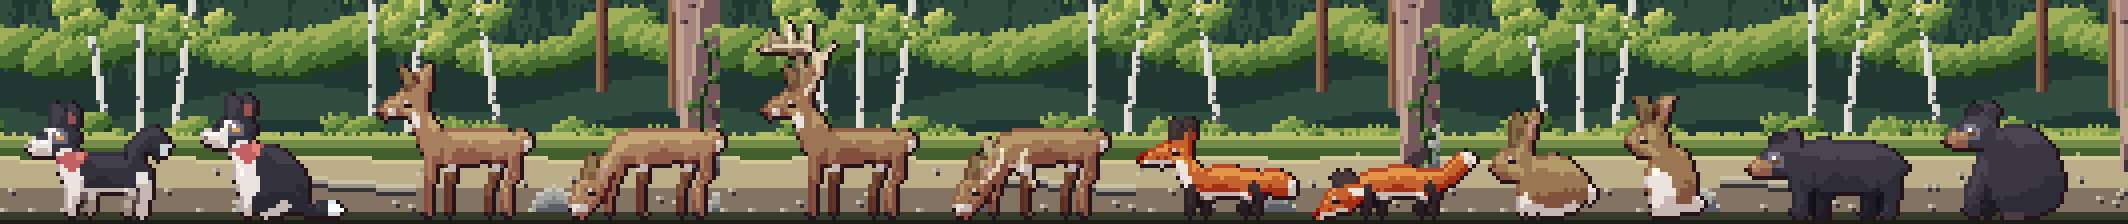
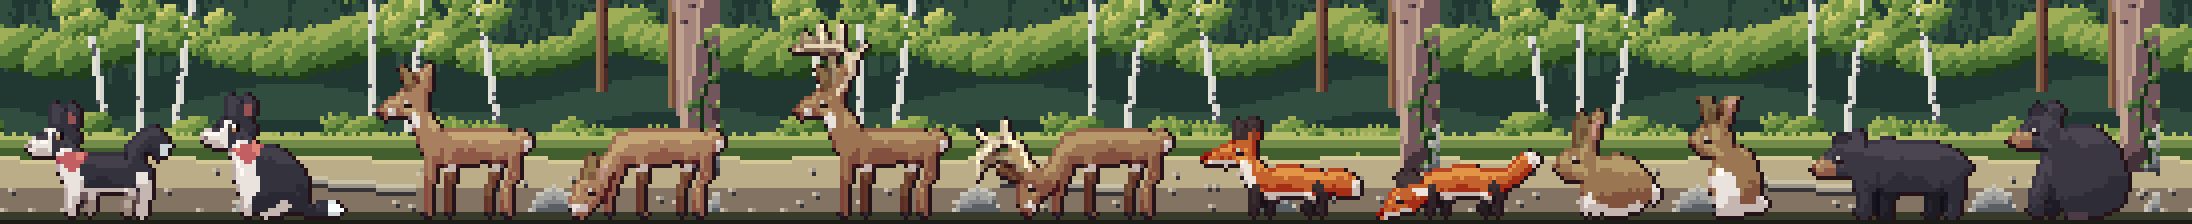
Study 8: Olive's eye with a black pupil; the buck's head turns with its antlers
The grey eye rims on Olive and the bear are taken back out; Olive's eye
gets a black pupil and a catchlight. The drinking buck's standing head,
ears and antlers are turned down together (head_turn in anatomy.py), so
the antlers point the way the head does, with room on the left for them.

Claude-Session: https://claude.ai/code/session_01AFuv3xBDCFNHg8cxuFG86Z

diff --git a/docs/studio/review/study8.html b/docs/studio/review/study8.html
@@ -115,12 +115,11 @@ code { font-family: var(--mono); font-size: 0.85em; }
     <h2>C, with every model checked</h2>
     <p>You picked C and pointed out that Olive's eyes didn't show and the deer lost her ears when she bent down. Going over every model close up:</p>
     <ol class="rules">
-      <li><b>Olive:</b> her brown eyes vanished against her black coat. They're a warmer brown now, with a catchlight and a soft grey rim round them, so they read.</li>
-      <li><b>The bear:</b> the same problem with his dark eyes on black fur; now a brown eye with the same soft rim.</li>
+      <li><b>Olive:</b> her brown eyes vanished against her black coat. Her eye is her own brown again, with a black pupil beside it and a catchlight, so it reads. (A soft grey rim was tried first, on her and the bear, and taken back out.)</li>
       <li><b>The deer, drinking:</b> her ears folded back along her neck and merged into it. They now stand up and back from the top of her head, the near one showing its pink inside.</li>
       <li><b>The fox:</b> his ears were all orange and melted into his head; a red fox's ears are black-backed, and now his are.</li>
       <li><b>The hare, sitting up:</b> both ears merged into one wide block; they're parted now, the far one angled back.</li>
-      <li><b>New: a buck</b> beside the doe: hardened late-summer antlers (two beams sweeping forward, tines rising from them), a heavier neck, a darker coat.</li>
+      <li><b>New: a buck</b> beside the doe: hardened late-summer antlers (two beams sweeping forward, tines rising from them), a heavier neck, a darker coat. Drinking, his whole head (ears and antlers with it) turns down as one piece, so the antlers sweep forward the way his head points.</li>
     </ol>
     <img src="study8/final.png" alt="The corrected cast in direction C, standing and in their own poses, with the buck" width="2128" height="224" style="width:100%;height:auto;image-rendering:pixelated;border-radius:4px">
   </section>

diff --git a/tools/studio/study_creatures.py b/tools/studio/study_creatures.py
@@ -83,7 +83,7 @@ DEER = {
 # slightly darker coat. Drawn from the doe, with a taller frame for the
 # antlers.
 BUCK = copy.deepcopy(DEER)
-BUCK["frame"], BUCK["ground"] = (46, 54), 52
+BUCK["frame"], BUCK["ground"], BUCK["dx"] = (54, 54), 52, 8
 BUCK["colours"].update({"O": "#9c7454", "S": "#735238", "A": "#e2d4b4", "a": "#9c8a6a"})
 BUCK["poses"]["stand"].update({
     "neck": [(13.5, 22.5), (11, 17), (9.5, 12.5), (12.8, 10.2), (16.5, 14), (18.5, 19)],
@@ -95,12 +95,9 @@ BUCK["poses"]["stand"].update({
                 ("A", [(15.6, 2.4), (18.6, -1.2)], [1, 1]), ("A", [(13.4, -1), (14, -5.6)], [1, 1]),
                 ("A", [(9.6, -1.9), (9.6, -6.2)], [1, 1])],
 })
-BUCK["poses"]["drink"].update({
-    "neck": [(13.5, 21), (11.5, 23.5), (8.5, 28.5), (5.5, 32.5), (9.5, 34.5), (12.5, 29.5), (17, 23)],
-    "antlers_far": [("a", [(6.6, 30), (8.4, 26.6), (11.8, 24.6), (15.4, 25.4)], [1.2, 1, 1, 1]), ("a", [(10.4, 25.2), (10, 21.4)], [1, 1])],
-    "antlers": [("A", [(8.8, 30.6), (11.6, 28), (15.4, 26.8), (18.6, 28), (20, 31)], [1.3, 1.1, 1, 1, 1]),
-                ("A", [(12.4, 27.6), (13.4, 23.6)], [1, 1]), ("A", [(16.4, 27), (18.2, 23.4)], [1, 1])],
-})
+BUCK["poses"]["drink"] = {**DEER["poses"]["drink"], "head_turn": (-60, "stand"), "pivot": (8, 30),
+    "neck": [(13.5, 21), (11.5, 23.5), (8.5, 28.5), (6, 31.5), (9.5, 33.5), (12.5, 29.5), (17, 23)],
+}
 
 FOX = {
     "frame": (42, 27), "ground": 25, "near": "K", "far": "S",
@@ -180,8 +177,8 @@ HARE = {
 }
 
 BEAR = {
-    "frame": (46, 31), "ground": 29, "near": "O", "far": "S", "eye_ring": "k",
-    "colours": {"O": "#3a3742", "S": "#26232c", "M": "#a9805f", "P": "#5a4a50", "E": "#6b4430", "k": "#6c6878"},
+    "frame": (46, 31), "ground": 29, "near": "O", "far": "S",
+    "colours": {"O": "#3a3742", "S": "#26232c", "M": "#a9805f", "P": "#5a4a50"},
     "poses": {"stand": {
         "pivot": (9, 14),
         "torso": [(12, 12.5), (17, 10), (24, 10.5), (31, 11), (36, 12), (39, 15), (39, 19), (36, 21.5), (28, 22), (19, 22), (13, 21), (10, 18.5), (10, 15)],
@@ -219,9 +216,9 @@ BEAR = {
 }
 
 OLIVE = {
-    "frame": (42, 32), "ground": 30, "near": "W", "far": "w", "eye_ring": "k",
-    "colours": {"O": "#33323d", "W": "#eae2dc", "w": "#b3a697", "H": "#faffff", "R": "#c25f62", "P": "#985252", "E": "#c07a4a",
-                "k": "#6c6878", "C": "#fff4e0"},
+    "frame": (42, 32), "ground": 30, "near": "W", "far": "w", "pupil": "D",
+    "colours": {"O": "#33323d", "W": "#eae2dc", "w": "#b3a697", "H": "#faffff", "R": "#c25f62", "P": "#985252", "E": "#a36443",
+                "D": "#14090e"},
     "poses": {"stand": {
         "pivot": (11, 12),
         "torso": [(13, 16), (19, 15), (26, 15.2), (31, 16), (33.5, 18.5), (33, 22), (30, 23.5), (24, 23.6), (18, 23.8), (13.5, 22.5), (11, 19.5), (11.5, 17)],

diff --git a/tools/characters/anatomy.py b/tools/characters/anatomy.py
@@ -141,6 +141,23 @@ def draw(spec, style="natural", pose="stand"):
     p = dict(spec["poses"][pose])
     if "base" in p:
         p = {**spec["poses"][p["base"]], **p}
+    if "head_turn" in p:
+        # the head of another pose, with its ears and antlers, turned as one
+        # piece about the top of the neck and set on this pose's neck, so
+        # everything on the head points the way the head does
+        angle, src = p["head_turn"]
+        q = spec["poses"][src]
+        a = math.radians(angle)
+        (sx, sy), (tx, ty) = q["pivot"], p["pivot"]
+
+        def turn(pts):
+            return [(tx + (x - sx) * math.cos(a) - (y - sy) * math.sin(a), ty + (x - sx) * math.sin(a) + (y - sy) * math.cos(a)) for x, y in pts]
+        p["head"] = turn(q["head"])
+        p["eye"], p["nose"] = turn([q["eye"]])[0], turn([q["nose"]])[0]
+        for key in ("ears", "ears_far", "head_marks"):
+            p[key] = [(ch, turn(pts)) for ch, pts in q.get(key, [])]
+        for key in ("antlers", "antlers_far"):
+            p[key] = [(ch, turn(j), w) for ch, j, w in q.get(key, [])]
     W, H, G = spec["frame"][0], spec["frame"][1], spec["ground"]
     c = Canvas(W, H)
     legs = []
@@ -150,10 +167,11 @@ def draw(spec, style="natural", pose="stand"):
         legs.append((side, new, widths))
     # the whole animal lowered so its lowest foot stands on the ground
     drop = G - max(j[-1][1] for _, j, _ in legs)
-    sh = lambda pts: [(x, y + drop) for x, y in pts]  # noqa: E731
-    legs = [(side, [(x, y + drop) for x, y in j], w) for side, j, w in legs]
+    dx = spec.get("dx", 0)  # room on the left, for antlers reaching forward
+    sh = lambda pts: [(x + dx, y + drop) for x, y in pts]  # noqa: E731
+    legs = [(side, [(x + dx, y + drop) for x, y in j], w) for side, j, w in legs]
     pivot = p["pivot"]
-    pivot = (pivot[0], pivot[1] + drop)
+    pivot = (pivot[0] + dx, pivot[1] + drop)
     head = lambda pts, extra=1.0: scaled(sh(pts), pivot, st["head"] * extra)  # noqa: E731
     torso = rounder(sh(p["torso"]), st["round"])
     for side, j, w in legs:
@@ -209,6 +227,10 @@ def draw(spec, style="natural", pose="stand"):
                 put(ex + dx, ey + dy, "E")
         put(ex, ey, "C")
         put(ex + 1, ey + 2, "B")  # a little blush under the eye
+    pupil = spec.get("pupil")
+    if pupil and st["eye"] != "dot":
+        put(ex + 1, ey + 1, pupil)  # a black pupil in the eye
+        put(ex + 1, ey, pupil)
     ring = spec.get("eye_ring")
     if ring:
         # on a dark coat the eye needs a lighter rim to be seen

diff --git a/docs/studio/studies.md b/docs/studio/studies.md
@@ -370,14 +370,21 @@ read.
 
 **Verdict:** C, cozy naturalist, with corrections: Olive's eyes didn't
 show and the deer lost her ears bending down. Checked every model and
-fixed: Olive's and the bear's eyes (warmer, a catchlight and a soft grey
-rim against the black coat), the drinking deer's ears (standing up and
+fixed: Olive's eye (a black pupil beside the brown and a catchlight; a
+grey rim round her and the bear's eyes was tried and taken back out, at
+your call), the drinking deer's ears (standing up and
 back, clear of the neck), the fox's ears (black-backed), the hare's ears
 sitting up (parted). Added a buck beside the doe: hardened late-summer
-antlers, a heavier neck, a darker coat.
+antlers, a heavier neck, a darker coat. His drinking head first had
+antlers pointing one way and a head pointing another; now his standing
+head, ears and antlers are turned down together as one piece (`head_turn`
+in `tools/characters/anatomy.py`), 60 degrees, so they agree.
 
 **Learned:**
-- On a black coat a dark eye disappears: give it a lighter rim.
+- On a black coat a dark eye disappears: a black pupil and a catchlight
+  in it make it read.
+- Turn a head as one piece with everything on it (ears, antlers); drawn
+  separately they point different ways.
 - Parts that fold against a body of the same colour vanish; turn them so
   they stand clear of it, or give them a darker or lighter face.
 - Antler tines need room: spaced three pixels apart with their outline,
